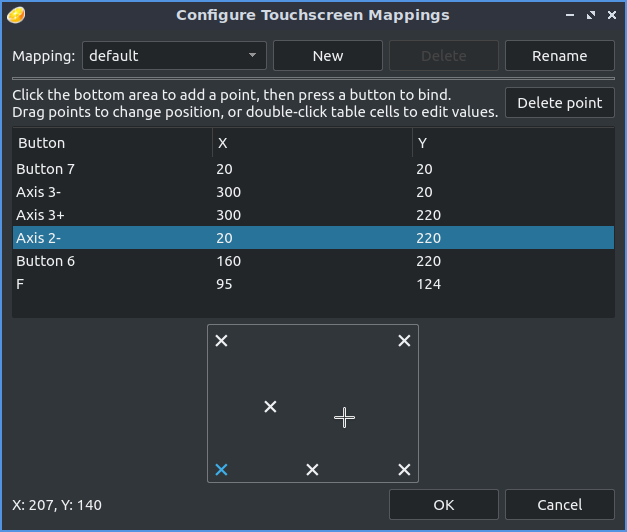
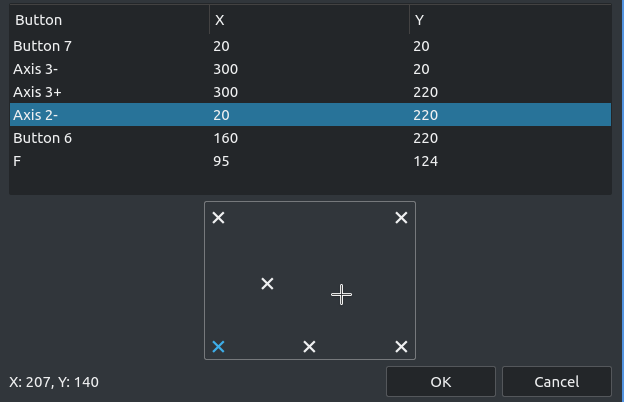
Remove TODOs

diff --git a/site/content/entry/citra-progress-report-2020-q2.md b/site/content/entry/citra-progress-report-2020-q2.md
@@ -1,5 +1,5 @@
 +++
-date = "2020-06-18T00:00:00+08:00"
+date = "2020-07-15T22:11:00+08:00"
 title = "Citra Mega Progress Report 2019 Q1~2020 Q2"
 tags = [ "progress-report" ]
 author = "zhaowenlan1779"
@@ -44,9 +44,6 @@ In the best case scenario, the game crashes immediately so we get a good idea of
 And in the worst case scenario, the game doesn't use that object for seconds or even minutes, until when it finally does and out of nowhere, crash!
 
 Since this is so new, you can bet that there will be bugs and broken loads, so we ask for your help in reporting these issues when you find them.
-
-(Gif of save state loading in pokemon)
-That's not video looping, it's just me reloading a save state whenever my attack misses!
 
 ## New 3DS Support
 
@@ -109,8 +106,6 @@ Later, [B3N30](https://github.com/B3N30) and [jroweboy](https://github.com/jrowe
 
 A few months ago, however, a turn of events came. [Subv](https://github.com/Subv) returned from his long hiatus and started helping with Citra again! [B3N30](https://github.com/B3N30) decided to once again pick up DLP LLE, and this time, with the help from [Subv](https://github.com/Subv), he was able to get it fully working!
 
-(Mario Kart 7 race)
-
 ### Instructions on Using DLP LLE
 
 Since this is LLE, keep in mind that you need to dump quite a few system files for it to work. In the past, this would mean manually looking through GodMode9 trying to find a bunch of different files. However, thanks to threeSD, a new dumping tool which we will cover later, the hassle is no more!
@@ -144,10 +139,6 @@ To use a custom texture pack, right click on the game in the game list and selec
 Then, turn on the Use Custom Texture option in Graphics -> Enhancements and you are set to go.
 
 The following are previews of some awesome texture pack projects by the community. They aren't finished yet, but stay tuned! You can also check out the `#mods-and-texture-packs` channel on the Citra Discord server.
-
-(Juxtapose of custom texture MH)
-
-Click here to see a larger version of the above juxtapose.
 
 {{< juxtapose "ec2bf8ba-a025-11ea-a7cb-0edaf8f81e27" >}}
 
@@ -187,9 +178,6 @@ Based on [leoetlino](https://github.com/leoetlino)'s work, [zhaowenlan1779](http
 
 [leoetlino](https://github.com/leoetlino)'s changes make it easier for modders to add custom code to 3DS games, so be sure to check out [Project Restoration](https://github.com/leoetlino/project-restoration) sometime as a thanks for these contributions! For those who don't know, [Project Restoration](https://github.com/leoetlino/project-restoration) by [leoetlino](https://github.com/leoetlino) restores some of the more controversial changes made in the 3DS release of Majora's Mask back to how it worked in the N64 version, and adds several new improvements to the classic game.
 
-(Pic of Project restoration on Citra)
-A classic game worth another playthrough with these improvements
-
 ### LayeredFS support ([#5088](https://github.com/citra-emu/citra/pull/5088)) by [zhaowenlan1779](https://github.com/zhaowenlan1779)
 
 LayeredFS is a technique used by mod makers to replace files in the RomFS (Read-only File System), where game assets and occasionally code are stored. With LayeredFS, you can replace the game graphics, music, etc. without having to rebuild the entire RomFS, which can be huge.
@@ -199,8 +187,6 @@ Since [Luma3DS](https://github.com/AuroraWright/Luma3DS) has had LayeredFS for y
 More modern consoles often have high-level FS APIs, which means that the game requests the OS to read files. While this translates to more work for the initial FS implementation, there are also compensations. For these consoles, LayeredFS can be added with ease simply by replacing the data to be returned to the game. For the 3DS, however, things are different. The FS service only provides basic functions to read the RomFS as a huge binary chunk - and the games need to parse the filesystem themselves.
 
 [Luma3DS](https://github.com/AuroraWright/Luma3DS)'s LayeredFS works by hooking the SDK code the games include to parse the RomFS, but [zhaowenlan1779](https://github.com/zhaowenlan1779) decided to take a harder and more robust approach. With help from 3dbrew documents, he wrote code to rebuild the RomFS metadata and assign fake data offsets to files. From the game's perspective, it would seem as if the RomFS has been completely rebuilt, but we are not actually doing that much work.
-
-(Picture of a game with fancy mods)
 
 ## Disk Shader Cache ([#4923](https://github.com/citra-emu/citra/pull/4923)) by [jroweboy](https://github.com/jroweboy)
 
@@ -215,15 +201,9 @@ This entire process can take a bit of time, so Citra has to pause emulation unti
 
 With this change, Citra will now instead preload all the shaders you've encountered during gameplay, allowing you to play through those same spots again without any stutter.
 
-(Gif of loading stutter)
-(Gif of same place after cached)
-Comparison of what shader stutter looks like before and after its cached.
-
 ## Video Dumper ([#4602](https://github.com/citra-emu/citra/pull/4602), [#5083](https://github.com/citra-emu/citra/pull/5083)) by [zhaowenlan1779](https://github.com/zhaowenlan1779)
 
 Some of you may be wondering: since it is so easy to use OBS to record gameplay, what is the point of a built-in video dumper? Well, while OBS is cool, there are people out there who wish to share their gameplay at consistent speeds without slowdowns and stutters. TAS communitys like [TASVideos](http://tasvideos.org/) also required complying emulators to provide a way to 'render' gameplay. That was why [zhaowenlan1779](https://github.com/zhaowenlan1779) implemented a video dumper into Citra around Aug 2019.
-
-(Example Video)
 
 However, when the dumper was initially added, there wasn't a proper configuration dialog, and it would always use the VP9 encoder. As VP9 is a CPU encoder, the performance was bad when the resolution got high.
 
@@ -255,9 +235,6 @@ At 60FPS, this could mean waiting a whole 16.6 milliseconds until then!
 
 With this change, VSync is now on by default, and Citra will be able to continue emulation even while the GPU is drawing the frame.
 
-(Pic of random game)
-No more screen tearing, yay!
-
 ## Mii Selector ([#4635](https://github.com/citra-emu/citra/pull/4635)) by [FearlessTobi](https://github.com/FearlessTobi)
 
 Most of you may have been familiar with Miis ever since the age of Wii, but on Citra there were a few problems with Miis. For one, you were unable to select any Mii, and would have to live with a default one even if you added your own ones.
@@ -282,9 +259,6 @@ By overclocking, it's possible that the game will no longer need to skip frames,
 Either way, this slider should only be used for experiments or workarounds, and we won't provide support for any bugs caused by changing the slider from 100%.
 If you have a crash when under/overclocking, don't bother reporting it, just change the setting back to 100% and continue playing.
 
-(pic of LM2)
-Luigi's Mansion: Dark Moon can go much faster if underclocked, making it more playable.
-
 ## Touchscreen Mappings ([#5163](https://github.com/citra-emu/citra/pull/5163)) by [z87](https://github.com/z87)
 
 Being a dual-screen console, the 3DS has a second, smaller touchscreen in addition to the main 3D screen. Usually, games put less important information and buttons there. Owing to the relative low number of physical buttons, however, there are actually a number of games that use the touchscreen for rather frequently used buttons, one notable example being the `Ⅰ` and `Ⅱ` item register buttons in OoT 3D. This brought lots of inconvenience when playing on the 3DS itself, and even more when you are hooking Citra to a single-screen monitor or TV, and using a keyboard or a controller.
@@ -293,8 +267,6 @@ Previously, you would have to rely on third-party solutions which can require co
 
 {{< figure src="/images/entry/citra-progress-report-2020-q2/touchscreen_mappings.png"
     title="Get rid of complex external tools with this new, intuitive mapping dialog" >}}
-
-<!-- TODO: replace this image, it looks too big -->
 
 ## Book Layout ([#5043](https://github.com/citra-emu/citra/pull/5043)) by [vitor-k](https://github.com/vitor-k)
 
@@ -305,9 +277,6 @@ This changed over time as some first party games started to make use of this fea
 
 Seeing the feature request on our issue tracker, [vitor-k](https://github.com/vitor-k) came around and added the new layout to Citra.
 You can now use this rotated layout by choosing the Upright Book Style mode in the View -> Screen Layout settings.
-
-(Picture of mario bowsers story)
-Upright screen looks alright to me
 
 ## Interlaced Stereo 3D ([#5018](https://github.com/citra-emu/citra/pull/5018)) by [iwubcode](https://github.com/iwubcode)
 
@@ -413,9 +382,6 @@ Since this value is in fact sort of arbitrary and can't really be calculated, [x
 A small regression when mipmaps and cubemaps were added to Citra: the combination of these two were not supported.
 In very rare cases, games would use both and cause issues, so [wwylele](https://github.com/wwylele) stepped in and made them work together properly in Citra.
 
-(Picture of fire emblem sky box)
-This change fixed an issue with Fire Emblems sky box not rendering correctly.
-
 ### Fix clear textures ([#4844](https://github.com/citra-emu/citra/pull/4844), [#5186](https://github.com/citra-emu/citra/pull/5186)) by [hamish-milne](https://github.com/hamish-mline)
 
 Pokemon X/Y are back again causing more problems.
@@ -455,9 +421,6 @@ In this title, when drawing an effect for a certain ghost, the game would copy e
 In Citra, we accidentally read these extra bits, which caused Citra to read way out of bounds and crash.
 The fix is one small line, change the number of bits Citra reads to cut out those extra bits.
 
-(Picture of LM2 ghost)
-You no longer scare me, oh ghost-of-crashing-citra past
-
 ### Create Format Reinterpretation Framework ([#5170](https://github.com/citra-emu/citra/pull/5170)) by [BreadFish64](https://github.com/BreadFish64)
 
 Emulating the 3DS's GPU is hard, partially thanks to dumb games. On newer consoles like the Switch, games would usually use established graphics API such as OpenGL, so their behavior is mostly reasonable. On the 3DS, however, it seems that games are really trying their best to make use of all kinds of strange features and exploit all edge cases.
@@ -486,8 +449,6 @@ On a real 3DS, Super Mario Maker would take quite a while to create the huge Ext
 We then measured and added a delay of 39000ns to all IPC (Inter-Process Communication) calls - but as it turned out, this didn't fix the issue. The reason was quite obvious: I/O operations take much longer than your average IPC call.
 
 [FearlessTobi](https://github.com/FearlessTobi) wrote a few homebrews to measure file I/O delays for different file sizes. He then did a simple linear regression and put the formula in Citra - and it worked perfectly! While there are some other file types where the delay hasn't been measured yet, for the most part this should be sufficient.
-
-(Picture of Super Mario Maker creating Extra Data) The lovely pigeon finally gets some time to eat
 
 ### Add deprecated UDS ([#4690](https://github.com/citra-emu/citra/pull/4690)) by [wwylele](https://github.com/wwylele)
 
@@ -576,9 +537,6 @@ Determined to iron out every last bug in the implementation, [zhaowenlan1779](ht
 
 The reason? Originally Citra would clear out the memory used to communicate between the game and the software keyboard, but it turns out the real 3DS doesn't do this, and some games reused the data already in the memory region.
 Simply not clearing the memory was enough to fix Harvest Moon.
-
-(Pic of harvest moon with name input)
-That's a lovely gamer tag
 
 ### swkbd: Fix digit filter ([#5086](https://github.com/citra-emu/citra/pull/5086)) by [zhaowenlan1779](https://github.com/zhaowenlan1779)
 
@@ -696,14 +654,9 @@ Since Citra and [yuzu](https://yuzu-emu.org) share a similar frontend, it is imp
 A bug as old as the rest of the code base. No one seemed to notice that on certain Linux systems, the icon was missing.
 Simply pointing to the correct location for the Citra icon, fixed possibly Citra's oldest and most forgotten bug.
 
-(Picture of citra icon)
-Isn't the icon just lovely. Shoutouts if you've made it this far and are still reading
-
 ### GUI: fix minor issues with dark themes + rename and reorder themes ([#5077](https://github.com/citra-emu/citra/pull/5077)) originally by [Simek](https://github.com/Simek)
 
 In a word - the dark theme now looks better. Also, have you noticed that the themes have been renamed? They are now called 'Light', 'Light Colorful', 'Dark' and 'Dark Colorful'. More consistent, huh?
-
-(Picture of Dark theme before and after)
 
 ### citra_qt: config: Move audio to its own tab. ([#5079](https://github.com/citra-emu/citra/pull/5079)) originally by [bunnei](https://github.com/bunnei)
 
